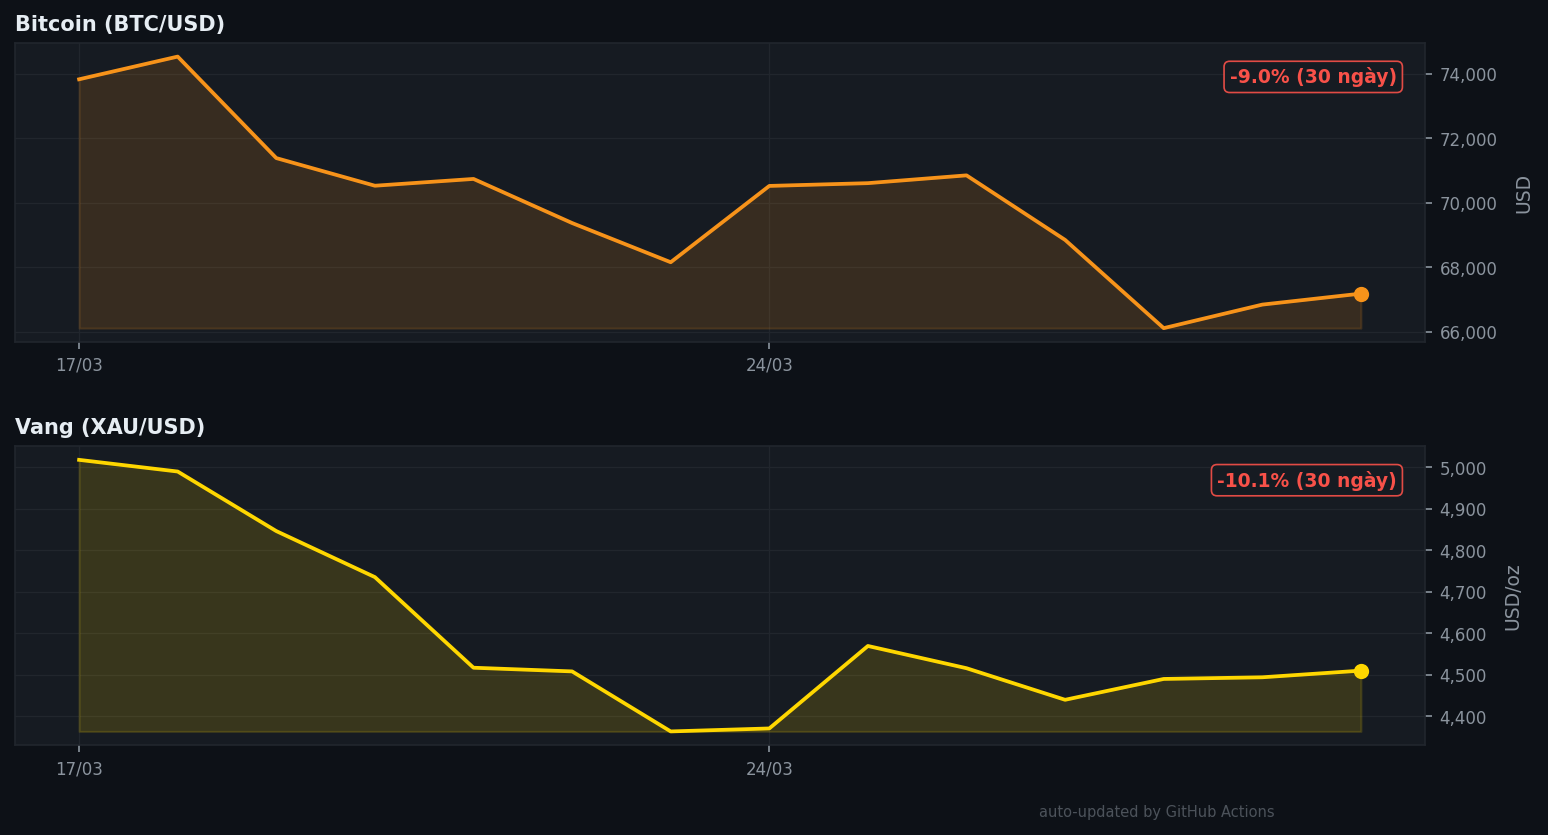
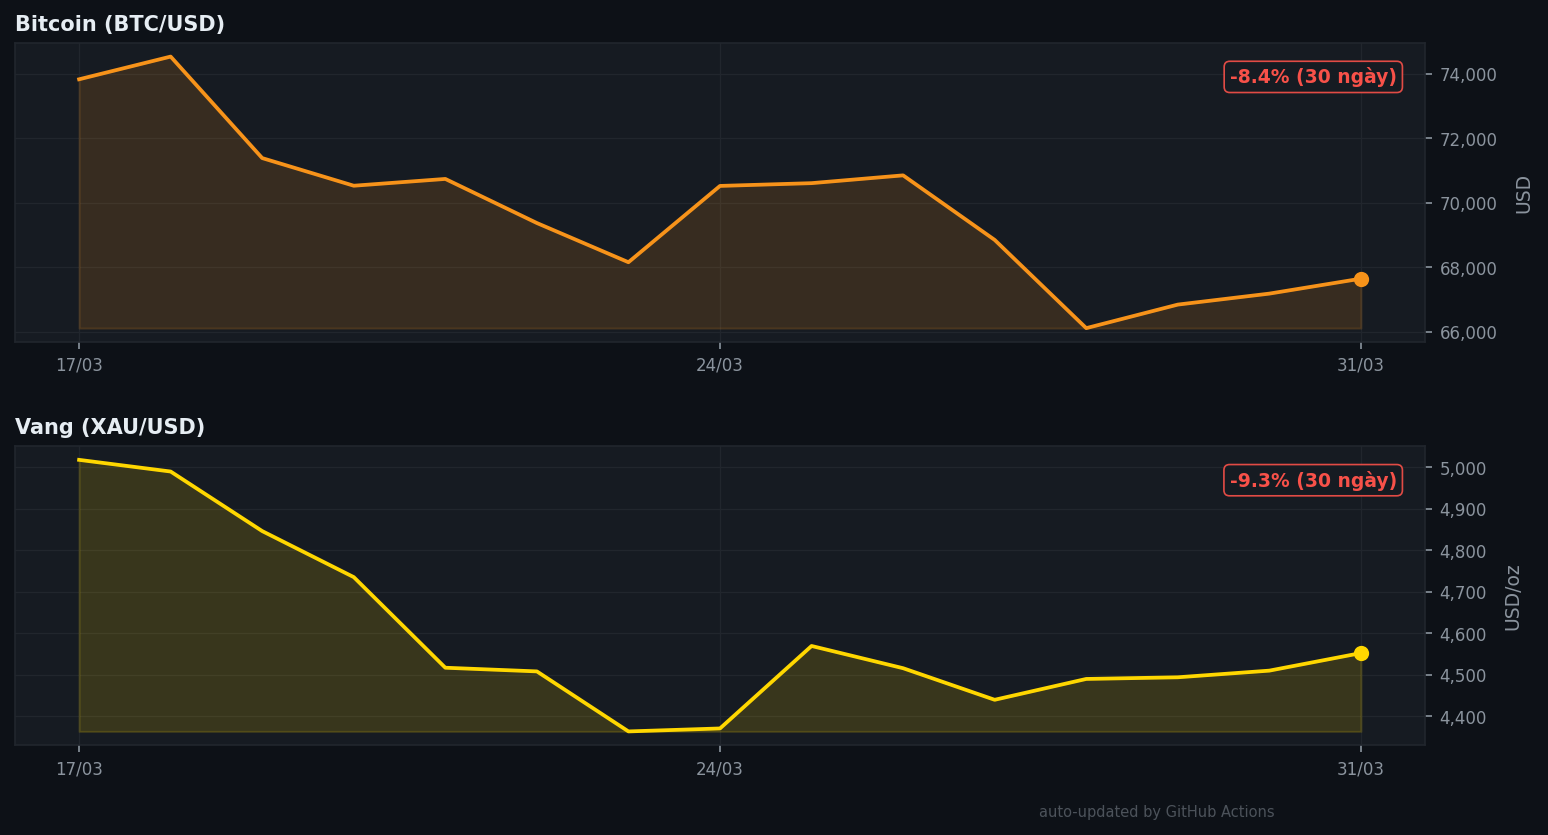
📊 Auto-update: 2026-03-31 03:45 UTC

diff --git a/README.md b/README.md
@@ -3,34 +3,34 @@
 **Dự án tự động cập nhật giá Bitcoin và Vàng mỗi ngày qua GitHub Actions.**
 
 <!-- PRICE_START -->
-## 📊 Giá hôm nay — 2026-03-30
+## 📊 Giá hôm nay — 2026-03-31
 
-> ⏱ Tự động cập nhật lúc **2026-03-30 03:54 UTC** bởi [GitHub Actions](.github/workflows/update.yml)
+> ⏱ Tự động cập nhật lúc **2026-03-31 03:45 UTC** bởi [GitHub Actions](.github/workflows/update.yml)
 
 ### ₿ Bitcoin
 
 | | Giá trị |
 |---|---|
-| 💰 Giá hiện tại | **$67,180.00** |
-| 🟢 ▲ Thay đổi 24h | `+0.47%` |
-| 📦 Market Cap | $1.34T |
-| 🔄 Volume 24h | $27.76B |
+| 💰 Giá hiện tại | **$67,644.00** |
+| 🟢 ▲ Thay đổi 24h | `+0.74%` |
+| 📦 Market Cap | $1.35T |
+| 🔄 Volume 24h | $40.04B |
 
 ### 🥇 Vàng (XAU)
 
 | | Giá trị |
 |---|---|
-| 💰 Giá / troy oz | **$4,510.13** |
-| ⚖ Giá / gram | $145.00 |
-| 🇻🇳 Giá / gram (VNĐ) | 3,807,446 ₫ |
+| 💰 Giá / troy oz | **$4,552.44** |
+| ⚖ Giá / gram | $146.36 |
+| 🇻🇳 Giá / gram (VNĐ) | 3,843,874 ₫ |
 
-### 📈 Thống kê 14 ngày qua
+### 📈 Thống kê 15 ngày qua
 
 | | Bitcoin | Vàng |
 |---|---|---|
 | 🔺 Cao nhất | $74,538 | $5,018/oz |
 | 🔻 Thấp nhất | $66,108 | $4,364/oz |
-| 📉 Thay đổi | `+-9.0%` | `-10.1%` |
+| 📉 Thay đổi | `+-8.4%` | `-9.3%` |
 
 ### 📉 Biểu đồ 30 ngày
 
